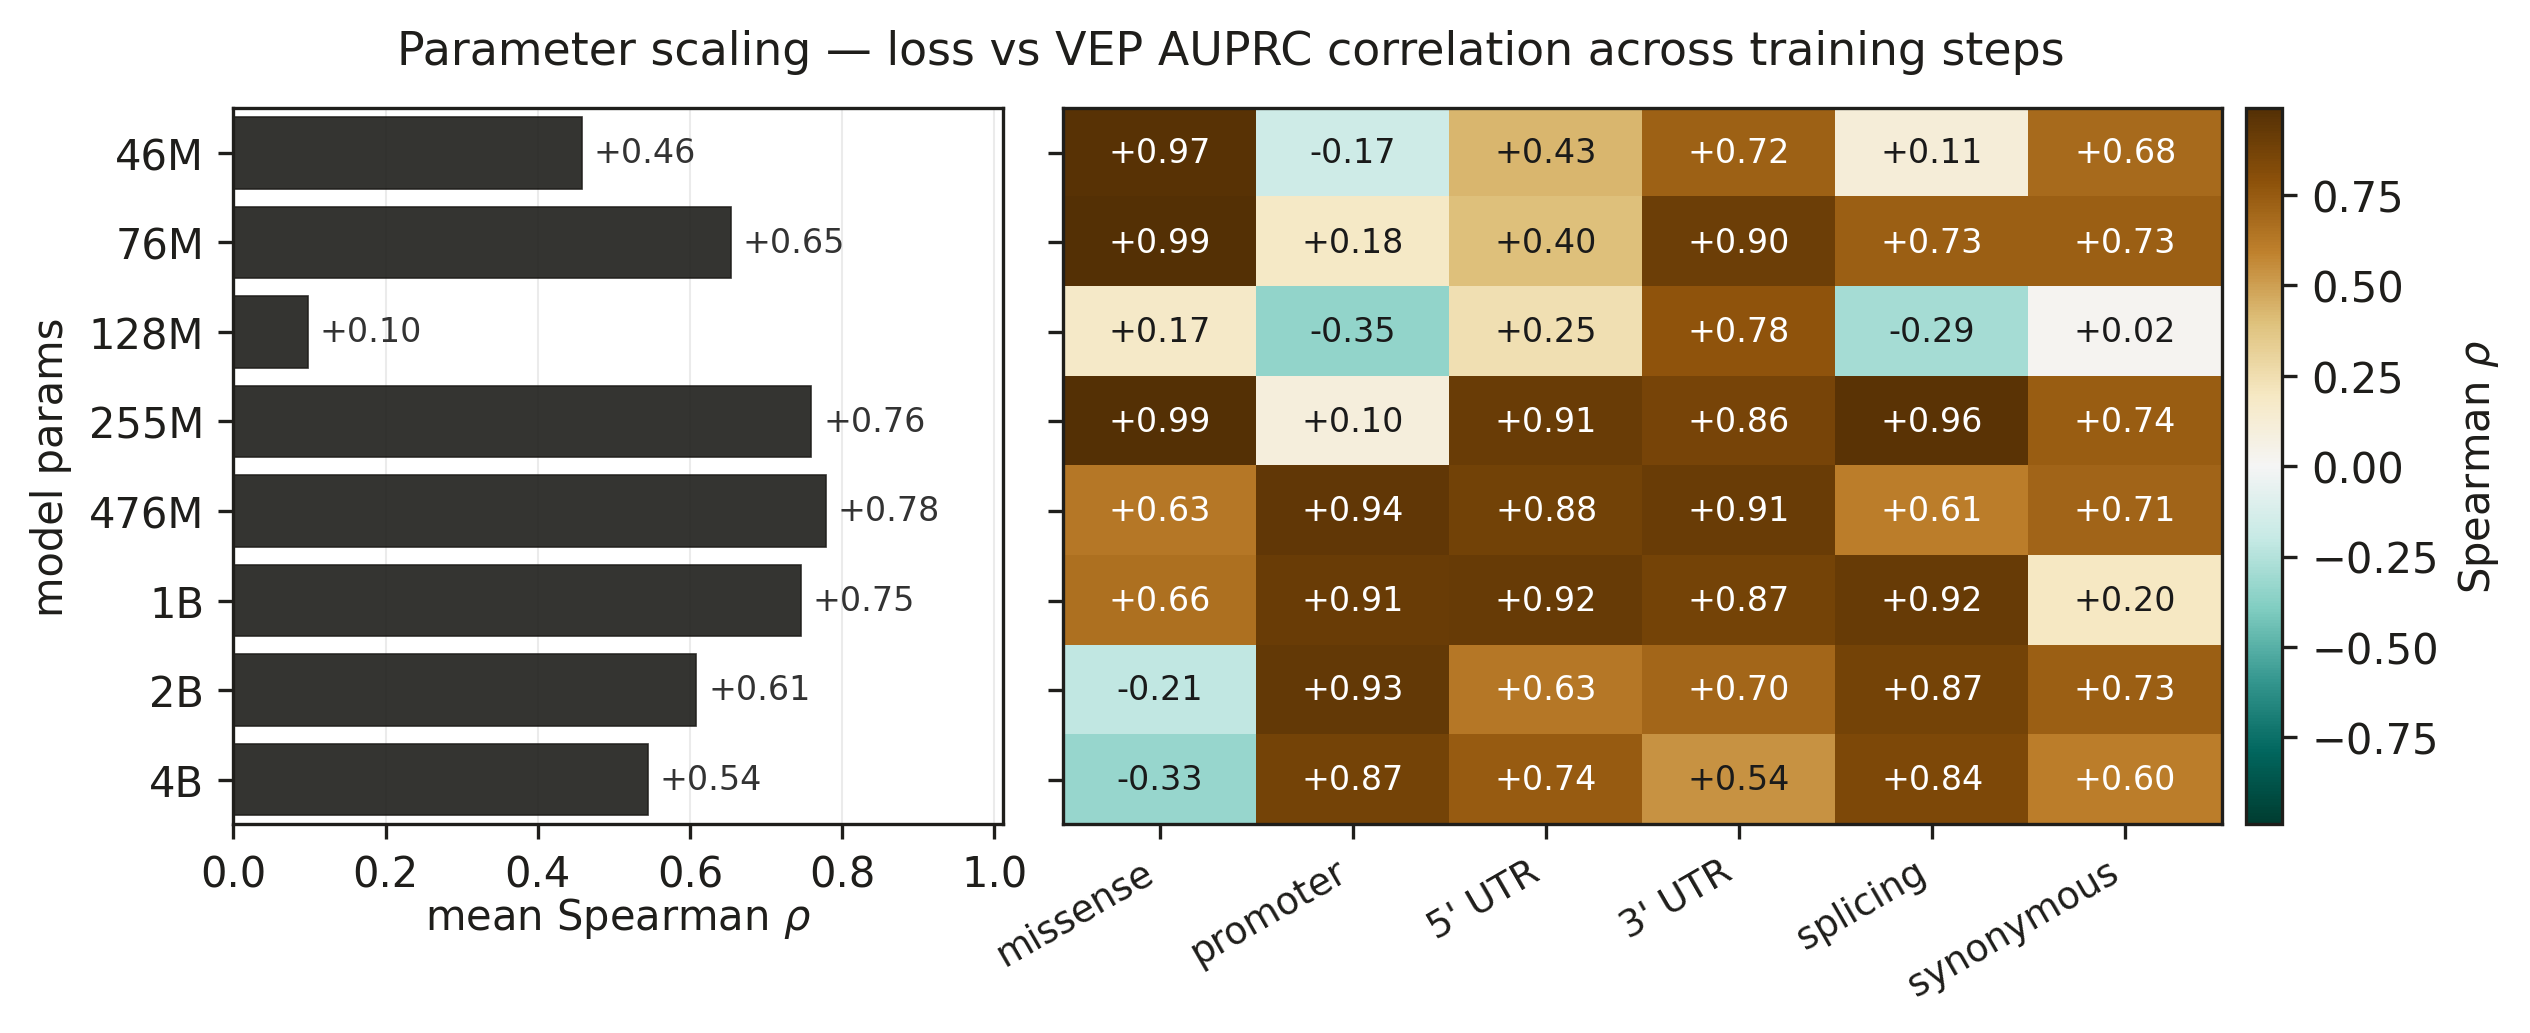
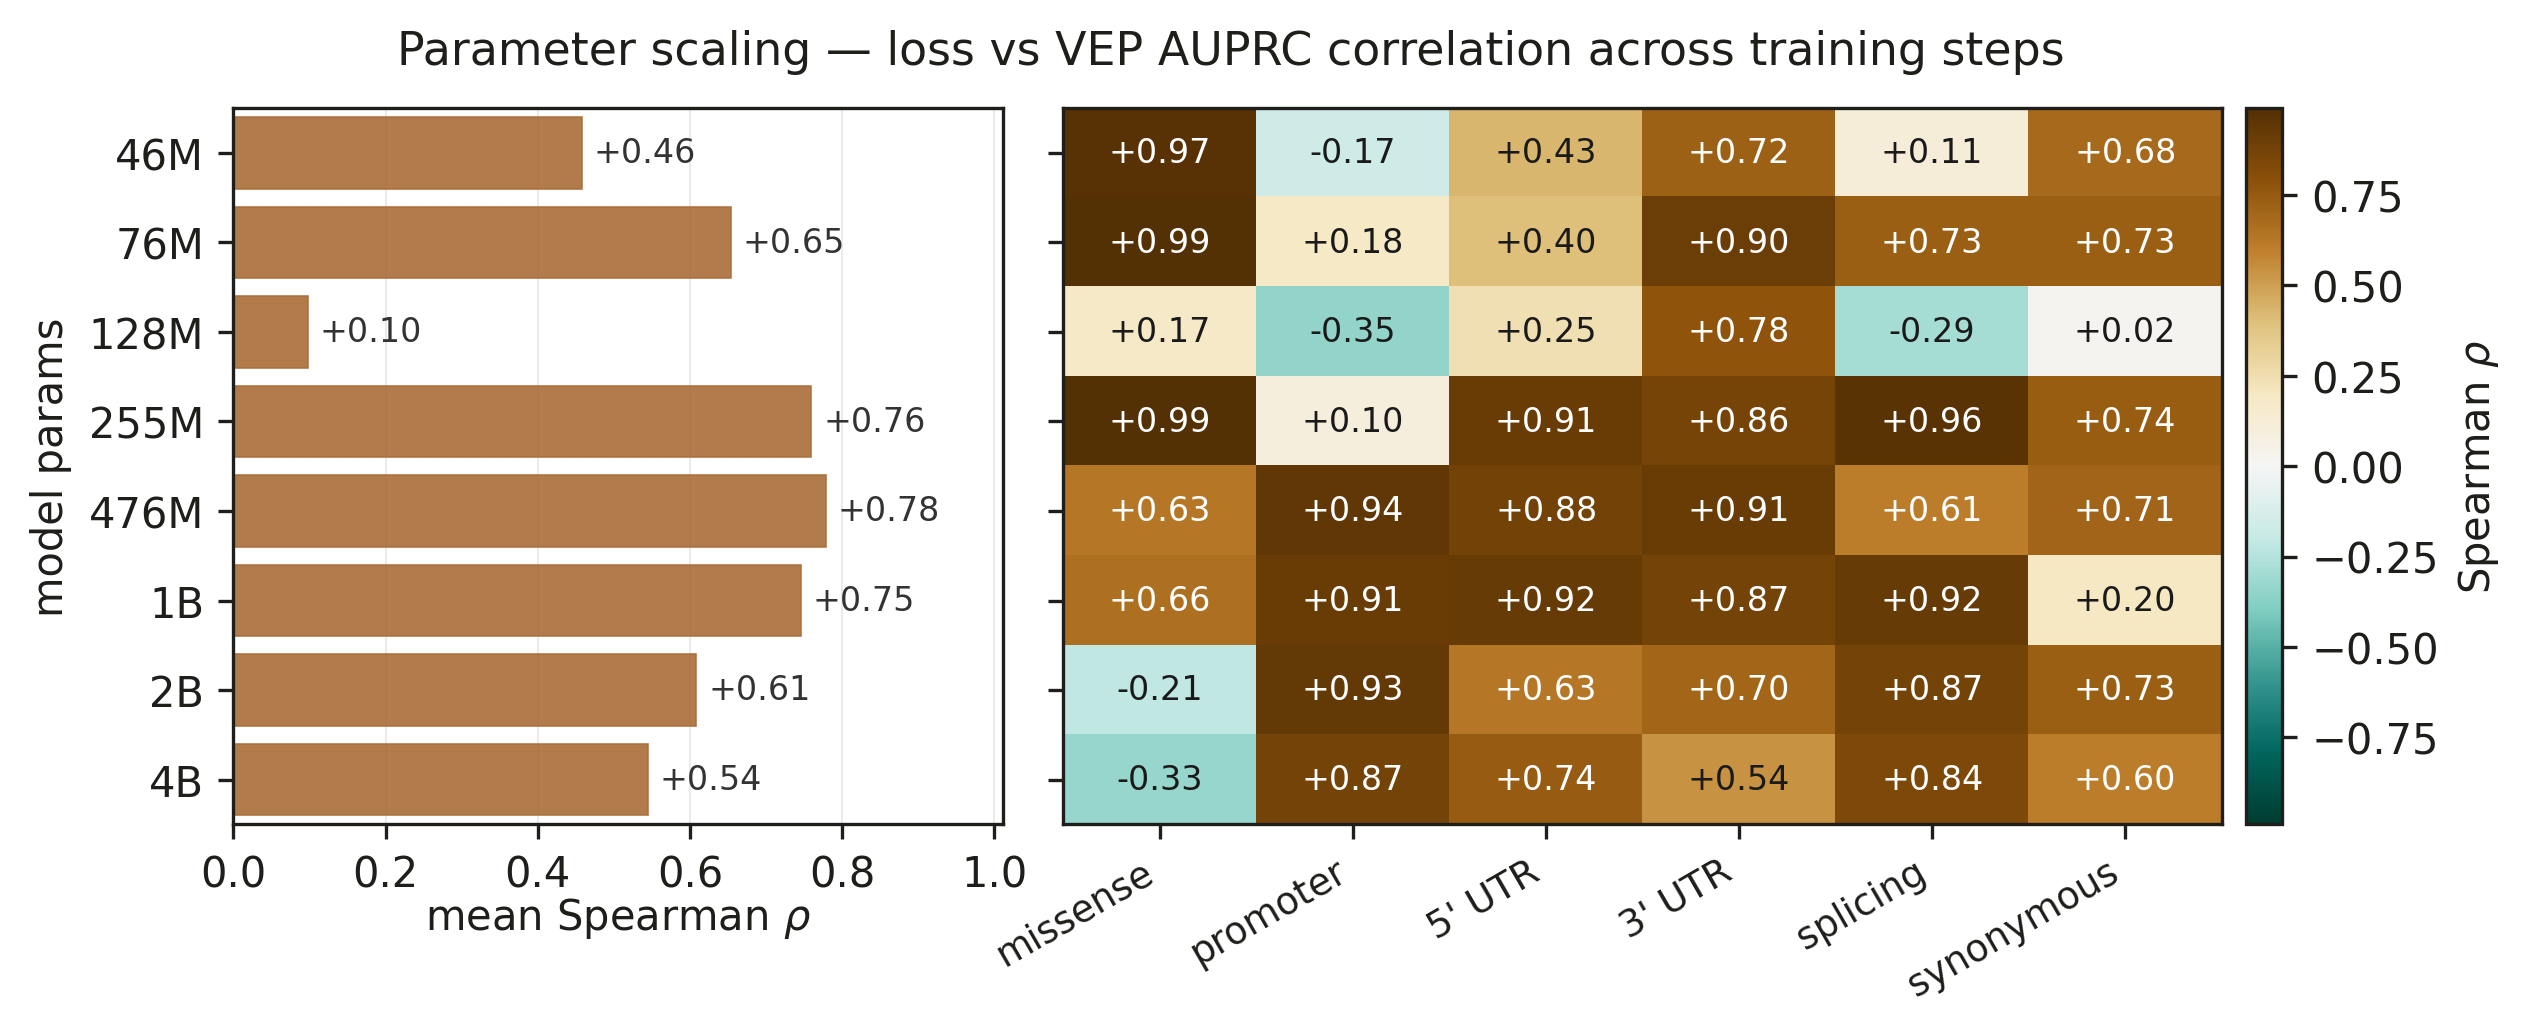
Update post figures and notes

Changed region(s): [[0.0937, 0.0929, 0.3435, 0.8054]]

diff --git a/src/figures/figure8_loss_vs_traitgym_correlation.py b/src/figures/figure8_loss_vs_traitgym_correlation.py
@@ -41,8 +41,7 @@ from scipy.stats import spearmanr
 
 sys.path.insert(0, str(Path(__file__).resolve().parents[1]))
 from utils.eval_history import DEFAULT_MAX_GAP_FRACTION, dedup_eval_history  # noqa: E402
-from utils.figure_style import DIVERGING_CMAP, figsize  # noqa: E402
-from utils.figure_theme import INK  # noqa: E402
+from utils.figure_style import DIVERGING_CMAP, LARGEST_MODEL_COLOR, figsize  # noqa: E402
 from utils.pchip_interp import clean, interp_on_overlap  # noqa: E402
 from utils.savefig import save_figure  # noqa: E402
 
@@ -203,12 +202,11 @@ def plot(M: np.ndarray, row_labels: list[str], col_labels: list[str]) -> None:
 
     # --- Left: horizontal bars of row-mean ρ.
     y = np.arange(len(row_labels))
-    # Page-ink bars (warm near-black, mapped to currentColor on the web so they
-    # follow the body text and flip with light/dark) — softer than pure black and
-    # consistent with the figure set's earthy theme.
+    # Bars in the 4B model's palette color (rust), tying this summary to the
+    # largest-model end of the scaling figures.
     ax_bar.barh(
         y, bar_vals,
-        color=INK, edgecolor=INK, linewidth=0.4, alpha=0.9,
+        color=LARGEST_MODEL_COLOR, edgecolor=LARGEST_MODEL_COLOR, linewidth=0.4, alpha=0.9,
     )
     ax_bar.axvline(0, color="0.4", lw=0.6)
     ax_bar.set_yticks(y)

diff --git a/src/figures/figure9_upstream_mix_auprc.py b/src/figures/figure9_upstream_mix_auprc.py
@@ -15,8 +15,7 @@ import pandas as pd
 
 from figures import mixture_lineage as ml
 from figures.data import save
-from utils.figure_style import FIGURE_WIDTH, X_LABEL_PAD, figsize
-from utils.figure_theme import INK
+from utils.figure_style import FIGURE_WIDTH, LARGEST_MODEL_COLOR, X_LABEL_PAD, figsize
 
 # The uniform→upstream sweep (the ⅓-mix 1.6·M and 1.7·L are omitted).
 UPSTREAM_SWEEP = (
@@ -52,8 +51,9 @@ def build(df: pd.DataFrame) -> None:
     )
     ax.plot(
         xs, ys,
-        color=INK, lw=1.8, marker="o", markersize=8,
-        markerfacecolor=INK, markeredgecolor=INK, markeredgewidth=0.5, zorder=3,
+        color=LARGEST_MODEL_COLOR, lw=1.8, marker="o", markersize=8,
+        markerfacecolor=LARGEST_MODEL_COLOR, markeredgecolor=LARGEST_MODEL_COLOR,
+        markeredgewidth=0.5, zorder=3,
     )
     ax.set_xlabel("upstream proportion in continuation mix", labelpad=X_LABEL_PAD)
     ax.set_ylabel("macro avg VEP AUPRC")

diff --git a/src/utils/figure_style.py b/src/utils/figure_style.py
@@ -43,6 +43,13 @@ PARAM_CMAP = LinearSegmentedColormap.from_list(
     "earth", ["#23403f", "#3f6b5e", "#7e8a45", "#b3823f", "#9c4f2f"]
 )
 
+# Color the param palette assigns to the largest model (the 4B scale) — the rust
+# end of the ramp. palette() always maps the top scale to cmap(0.85)
+# (0.15 + 0.7·(n-1)/(n-1)) regardless of model count, so this is the exact 4B
+# color seen in the scaling figures. Reused by single-series figures (8, 9) that
+# want to read as "the big model" without rebuilding the full palette.
+LARGEST_MODEL_COLOR = PARAM_CMAP(0.85)
+
 # Warm single-hue sequential (cream -> espresso) for magnitude heatmaps — same
 # family as PARAM_CMAP so the figure set stays visually consistent.
 HEATMAP_CMAP = LinearSegmentedColormap.from_list(

diff --git a/docs/notes/notes.md b/docs/notes/notes.md
@@ -20,11 +20,17 @@ largely invariant to N"
 
 ## TODO
 
-- Compare predicted hypers at 1e23 scale to text models at that scale
-- Create a table containing best hypers by FLOP and token count as a guideline for others 
+- Primary
+  - Refactor "That cooldown behavior matching what we expect from text models is also somewhat noteworthy"
+    - Include results from cooldown analysis
+  - Sweep stats: FLOPS and wall clock time
+    - Use figure 4 of https://arxiv.org/abs/2305.16264 w/ 4.2B param 85B token training (very similar to scale here) as reference point on how large these experiments are
+  - Get throughput numbers
+  - Mention loss masking
+- Secondary
+  - Compare predicted hypers at 1e23 scale to text models at that scale
+  - Create a table containing best hypers by FLOP and token count as a guideline for others 
     - Start with this to make it clear that transfer is a function of tokens
-- Sweep stats: FLOPS and wall clock time
-    - Use figure 4 of https://arxiv.org/pdf/2305.16264 w/ 4.2B param 85B token training (very similar to scale here) as reference point on how large these experiments are
 
 ## Stats
 

diff --git a/docs/outline.md b/docs/outline.md
@@ -102,14 +102,14 @@ Description: How Marin can be used to train single-sequence, vanilla Transformer
 
 ## Conclusion
 
-- Our net result is a PoC for a 1B model on par with Evo 2 40B after training on just 1.8% as many tokens (166B vs 9.3T), ~0.05% as many FLOPs (1.1e21 vs 2.25e24) and X% greater inference throughput
-  - TODO: again, need those throughput numbers
-  - Show `figure11_leaderboard_heatmap`
 - We believe a fast, high-quality, easy-to-replicate gLM for human variant prioritization, with few restrictions on genomic context, would be a signifcant contribution to the field
   - We show here how to check most of these boxes; however, "easy-to-replicate" is still a work in progress
   - This model resulted from a messy, ad-hoc process aided in unanticipated ways by hyperparameter transfer, scaling and mixture tools within Marin
   - Many less successful attempts are not mentioned here but documented in https://github.com/Open-Athena/marin-dna
 - Ongoing work will hopefully yield a more consistent, effective training strategy and even greater quality gains
-- Regularization is giant gap in this research, but that is difficult to tune without scaling heuristics or more compute
-  - Having narrowed the recipe now, this is more feasible in the future
-- TODO: mention this as an important demonstration of Marin for SciFMs
+- There are several notable gaps or limitations in this research:
+  - Regularization is entirely missing and that is a very important lever for data-constrained modeling 
+    - Again we are straddling data-constrained and compute-constrained regimes, but having narrowed the recipe now and with more effective infrastructure (TODO: link iris post) to better utilize the computing resources generously donated for these efforts by Google TPU Research Cloud, we believe we're likely to use this lever to significant effect in the future
+  - It's not clear where exactly we're getting the most lift yet, but data curation is almost certainly the greatest contributor
+    - We have not explained the details of this yet but plan to
+- We have plenty of work left to do, but we think these results demonstrate the potential power that a general-purpose training platform like Marin can have for accelerating scientific foundation model development